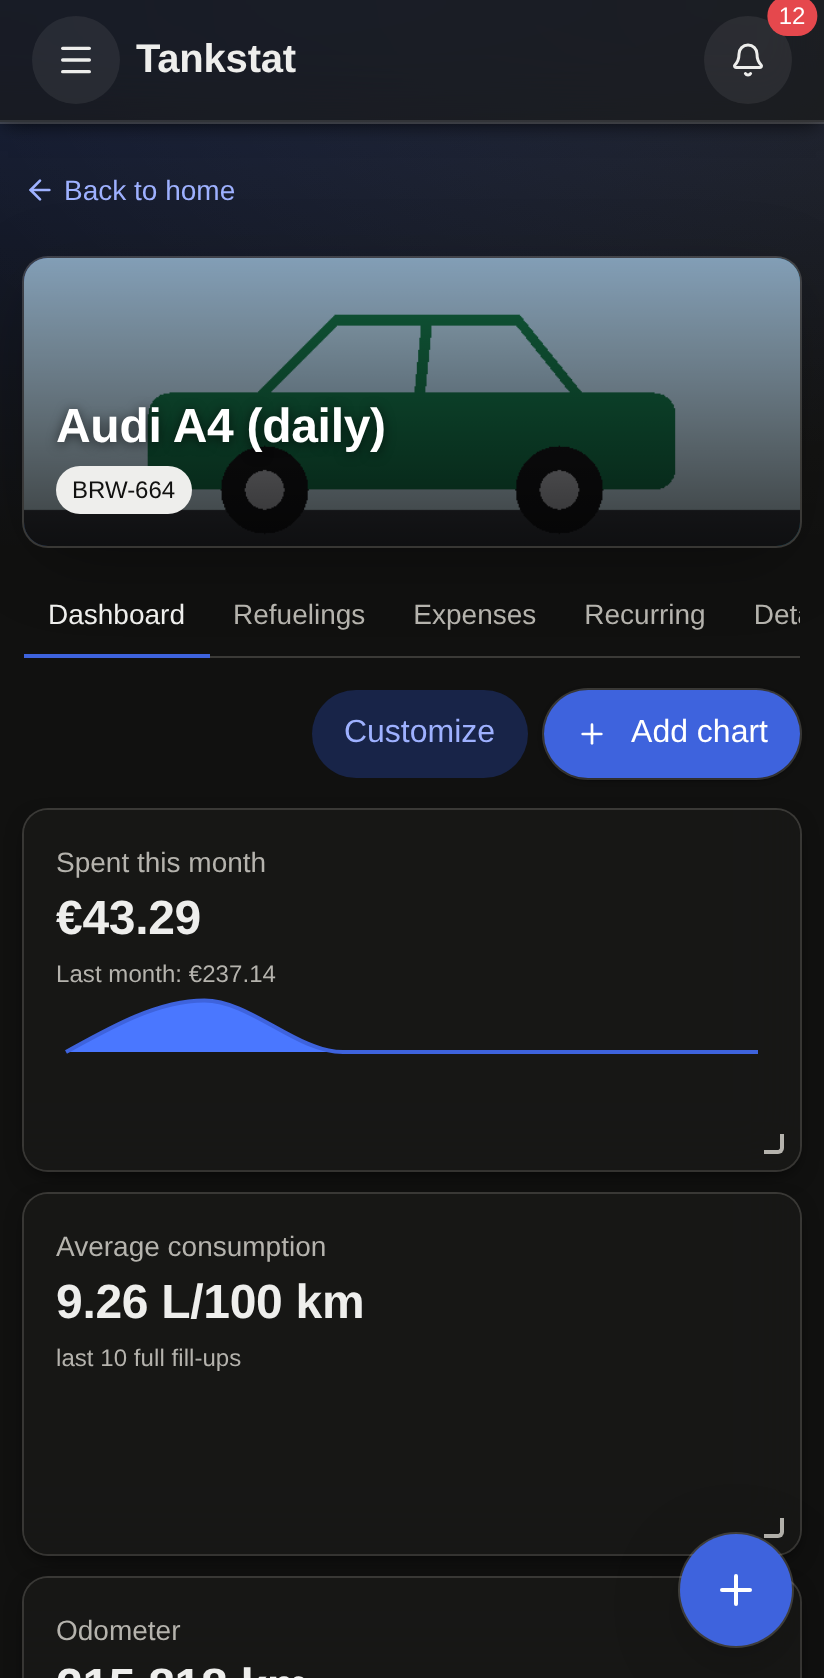
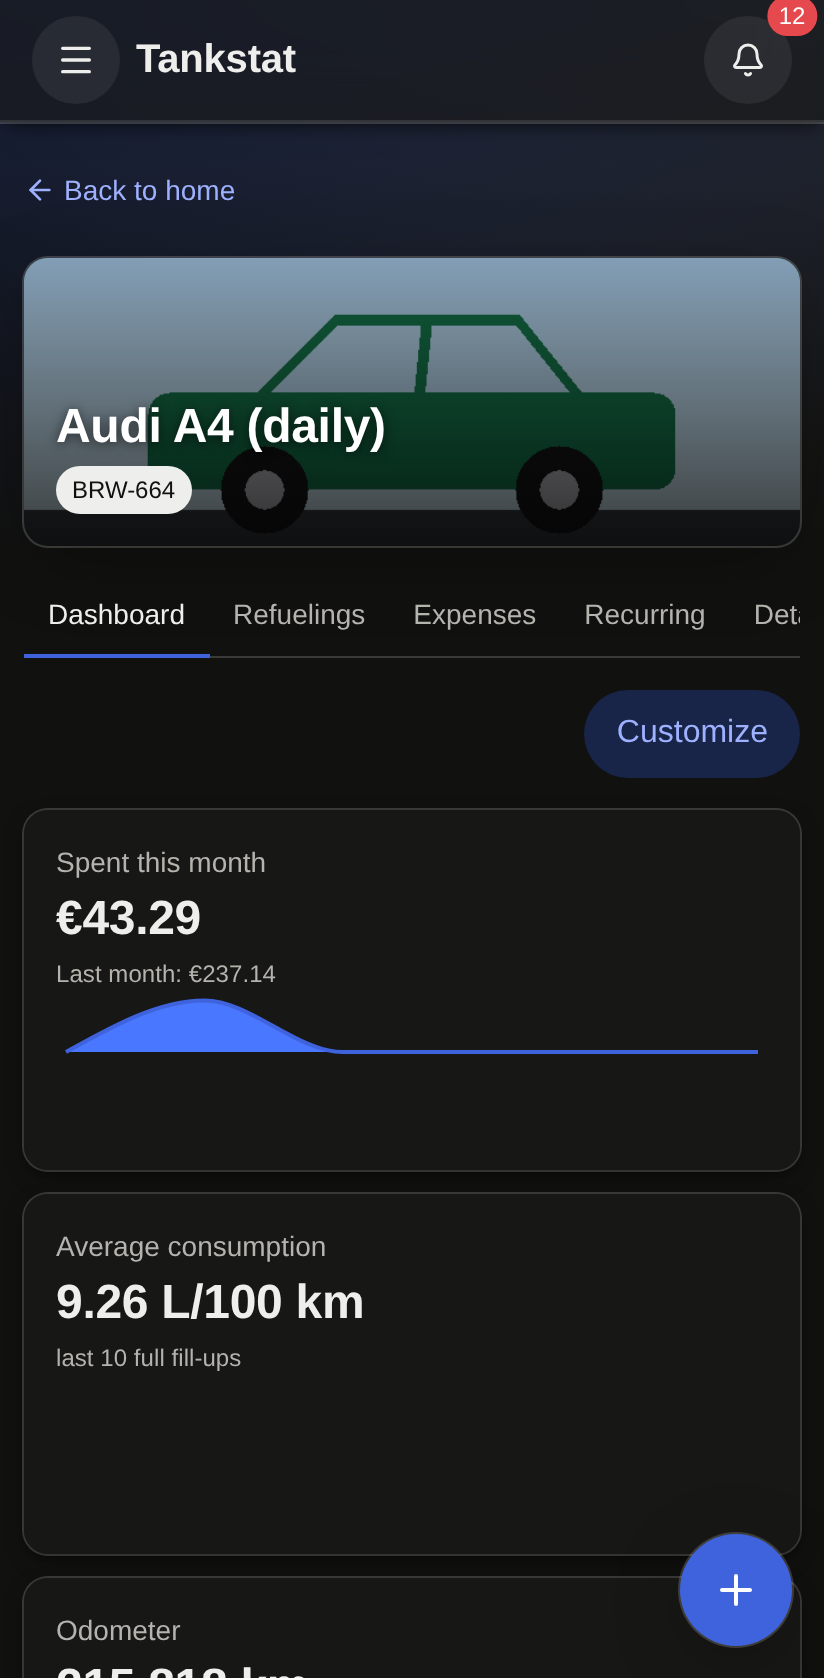
Changelog for 0.19.0, the Compose example runs 0.19, and the screenshots show the redesigned dashboard
The section covers what was merged since 0.18.0: the dashboard's editing redesigned (#228), a period for each trend figure (#230), key figures in fewer rows (#229), charts that fit their tiles (#227), toasts that let taps through (#239), and the fixes for a shared chart's rights (#210) and for catching up once back online (#238, #236). No migration. The README's screenshots are taken again (`VERSION=0.19.0 mise run screenshots`): the dashboard has Customize alone in its toolbar and a table button in each chart's header.

Claude-Session: https://claude.ai/code/session_01UYby1j4hBaAMViBEVebedH

Changed region(s): [[0.3641, 0.4029, 0.9709, 0.4648]]

diff --git a/CHANGELOG.md b/CHANGELOG.md
@@ -2,6 +2,39 @@
 
 Every release of Tankstat, newest first. Each one is a Docker image, `ghcr.io/carathorys/tankstat:<version>`, and a [GitHub release](https://github.com/carathorys/tankstat/releases). The numbers in brackets are the pull requests. Pre-releases (the previews) are not listed: their changes are in the release that followed them.
 
+## 0.19.0 (2026-11-04)
+
+### Added
+
+- **Dashboard editing, redesigned** (#228: #234). Outside *Customize* a tile shows only its content, and a chart's numbers open as a table in a dialog from the button in its card's header. While customizing, a strip lies across the top of each tile: its grip drags the tile, its ⋮ menu moves, sizes, pins or removes it, and Edit and Delete of one's own saved chart sit on its tile. **One *Add widget* dialog** replaces the old panel, *Add chart* and *Copy as my chart*: the key figures and ready-made charts not on the dashboard, the saved charts not on it and *Blank chart*, each with a live preview; a ready-made chart goes on as it is, or *Customize this chart* makes it one of your own. The chart builder has icon toggles, and what a choice rules out is dimmed with its reason, never hidden. The trend figures' arrows are coloured by meaning (spending, cost per distance and consumption up red, down green; distance neutral); the arrow and the words still say it.
+- **A period of its own for each trend figure** (#230: #245). The chip at a trend tile's top right names its period and opens a popover: quick picks, the last so many days, weeks, months, years or fill-ups (weeks, months and years whole if you like), or since a day, compared with the period before or the same dates a year earlier, with a timeline of both and the figure live. Apply keeps it with the dashboard (your own arrangement, else the vehicle's where you may change it, else a new one of your own); *Add widget* offers the same controls. The defaults are the windows the figures always had. The figures' labels are shorter (*Spending*, *Cost per distance change*, *Consumption change*, *Distance driven*), since the chip names the period.
+- **Key figures in fewer rows** (#229: #233). A figure shows what its tile's rows hold: two rows its label and value, three its comparison or note as well, four its little chart too. It can be made as low as two rows, except *Spent this month* (three) and the two trend figures whose words need the room (four).
+
+### Changed
+
+- **A chart fits its tile** (#227: #232, #240): its legend and the notes under it are counted, so a tile no longer scrolls or cuts its legend; the resize corner shows only while customizing; a dragged tile follows the pointer instead of freezing until it crosses into another cell.
+- **A toast lets a tap through** to the page under it (#239: #241); only its *Undo* takes one, so on a phone it no longer swallows the tap meant for the control at the bottom of the screen.
+
+### Fixed
+
+- **A shared chart offered Edit to someone with Delete access who did not make it**, and the save was refused (#210: #231). The creator edits a chart; the vehicle's owner, an administrator or a Delete grant can delete a shared one, and see only that.
+- **Back online, the app caught up only after up to an hour** (#238: #244): an answer that arrived just after going offline counted as the server being back, so the real return refreshed nothing and a change kept on the device waited for the hourly download. A sign-out made offline is told to the server as soon as it can be reached again (#236: #242).
+
+### Upgrading
+
+- **No database migration and no setting changed.** A trend figure's period is stored with its tile in the dashboard's arrangement; an arrangement saved by 0.18 reads as the defaults.
+- **The GraphQL schema** gains `VehicleChart.canDelete`, `vehicleTrend` and a tile's `period`; `VehicleChart.canEdit` now means the chart's creator only. A web app of 0.18 still open shows someone with Delete access on someone else's shared chart neither Edit nor Delete until *Reload* on the update notice.
+- With sign-in off, Everyone's dashboard offers your private charts, but the server keeps only shared charts in the vehicle's arrangement, so a private chart's tile there does not keep a move, a resize or a removal; share it to keep it there.
+- The Docker Compose example now runs 0.19 (`TANKSTAT_VERSION` in `.env.example`).
+
+### For developers
+
+- **Real-browser tests without the service worker** (#236: #242): every file imports `test` and `expect` from `e2e/support/test.ts`, whose context deletes `navigator.serviceWorker`, so the "can now be used offline" toast never lands on a phone test's control; only `offline.e2e.ts` keeps it. Pointer drags run under reduced motion and wait for `settled(locator)`.
+- **The test scripts' ports**: the API layer on 5120 (`TANKSTAT_API_PORT`), outside the real-browser tests' 5097-5103; both scripts stop when something already answers on their port (#242).
+- **Reachability** counts an answer only for a request sent since the server was last judged out of reach (`connectivity.epoch`, `succeeded(sentIn)`, #244); a jsdom test that navigates at its end waits for its requests with `answered()`, or a failure after the teardown leaves the next test out of reach.
+- `DashboardGrid.unit` drives the grid's drag, resize and drop callbacks through a stand-in for react-grid-layout, which jsdom cannot drag (#240).
+- The README's screenshots are taken again with the redesigned dashboard.
+
 ## 0.18.0 (2026-11-03)
 
 ### Added
